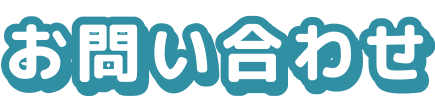
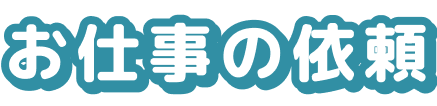
update : menu reel

diff --git a/src/components/layout/Header/Menu.tsx b/src/components/layout/Header/Menu.tsx
@@ -235,12 +235,12 @@ const Menu: React.FC = () => {
             映像屋さんの服
           </a>
         </li>
-        <li css={item}>
+        {/* <li css={item}>
           <MainItem route="/member" text="メンバー" />
         </li>
         <li css={item}>
           <MainItem route="/contact" text="お問い合わせ" />
-        </li>
+        </li> */}
       </ul>
       <ul css={bottomList}>
         <li css={bottomItem}>
@@ -254,6 +254,16 @@ const Menu: React.FC = () => {
           >
             SNS
           </a>
+        </li>
+        <li css={bottomItem}>
+          <CustomLink href="/member" onClick={handleClick}>
+            <span>メンバー</span>
+          </CustomLink>
+        </li>
+        <li css={bottomItem}>
+          <CustomLink href="/contact" onClick={handleClick}>
+            <span>お仕事の依頼</span>
+          </CustomLink>
         </li>
         <li css={bottomItem}>
           <CustomLink href="/about" onClick={handleClick}>
@@ -314,7 +324,7 @@ const moveForever = keyframes`
     transform: translate3d(85px,0,0);
   }
 `
-const waveHeight = 600
+const waveHeight = 500
 const waveHeightSp = 80
 const waveWrap = css`
   position: absolute;
@@ -392,7 +402,6 @@ const list = css`
 `
 const item = css`
   padding: ${style.vwSp(32)} 0 0;
-  text-align: center;
   ${style.pc(css`
     padding: 32px 0 0;
   `)}
@@ -445,7 +454,7 @@ const bottomList = css`
   position: relative;
   padding-left: ${style.vwSp(64)};
   /* padding-bottom: ${style.vwSp(29)}; */
-  padding-top: ${style.vwSp(40)};
+  padding-top: ${style.vwSp(70)};
   ${style.pc(css`
     display: none;
   `)}

diff --git a/src/components/works/WorksIndexInner.tsx b/src/components/works/WorksIndexInner.tsx
@@ -10,9 +10,10 @@ import cn from 'classnames'
 
 type Props = {
   works: WorksType[]
+  reelId: string
 }
 
-const WorksIndexInner: React.FC<Props> = ({ works }) => {
+const WorksIndexInner: React.FC<Props> = ({ works, reelId }) => {
   const { appState } = useContext(AppContext)
   const { isLoading } = appState
   const worksLength = works.length
@@ -123,7 +124,10 @@ const WorksIndexInner: React.FC<Props> = ({ works }) => {
           {works.map((work, index) => (
             <li css={itemStyle} key={index} className="works_item">
               <CustomLink href={`/tsukutta/${work.id}`}>
-                <div css={itemInner}>
+                <div
+                  css={itemInner}
+                  className={cn({ reel: reelId === work.id })}
+                >
                   <div css={img}>
                     <Picture
                       webp={`${work.thumbnail.url}?fm=webp`}
@@ -210,6 +214,21 @@ const itemInner = css`
   background-color: white;
   border-radius: ${style.vwSp(16)};
   height: 100%;
+  position: relative;
+  &.reel {
+    &::before {
+      content: '';
+      position: absolute;
+      top: -20px;
+      left: -15px;
+      width: 62px;
+      height: 62px;
+      background-image: url('/img/common/reel.png');
+      background-size: cover;
+      z-index: 1;
+      pointer-events: none;
+    }
+  }
   ${style.pc(css`
     padding: 16px 16px 24px;
     border-radius: 16px;

diff --git a/src/components/layout/Footer.tsx b/src/components/layout/Footer.tsx
@@ -50,6 +50,16 @@ const Footer: React.FC = () => {
           </a>
         </div>
         <div css={other}>
+          <CustomLink href="/member">
+            <span>メンバー</span>
+          </CustomLink>
+        </div>
+        <div css={other}>
+          <CustomLink href="/contact">
+            <span>お仕事の依頼</span>
+          </CustomLink>
+        </div>
+        <div css={other}>
           <CustomLink href="/about">
             <span>会社情報</span>
           </CustomLink>

diff --git a/src/pages/tsukutta/index.tsx b/src/pages/tsukutta/index.tsx
@@ -21,7 +21,7 @@ const WorksIndex: NextPage<Props> = ({ works, reelId, reelText }) => {
       <Meta id="tsukutta_index" />
 
       <main>
-        <WorksIndexInner works={works} />
+        <WorksIndexInner works={works} reelId={reelId} />
         <WorksModal
           work={works.find((d) => d.id === reelId)}
           reelText={reelText}
